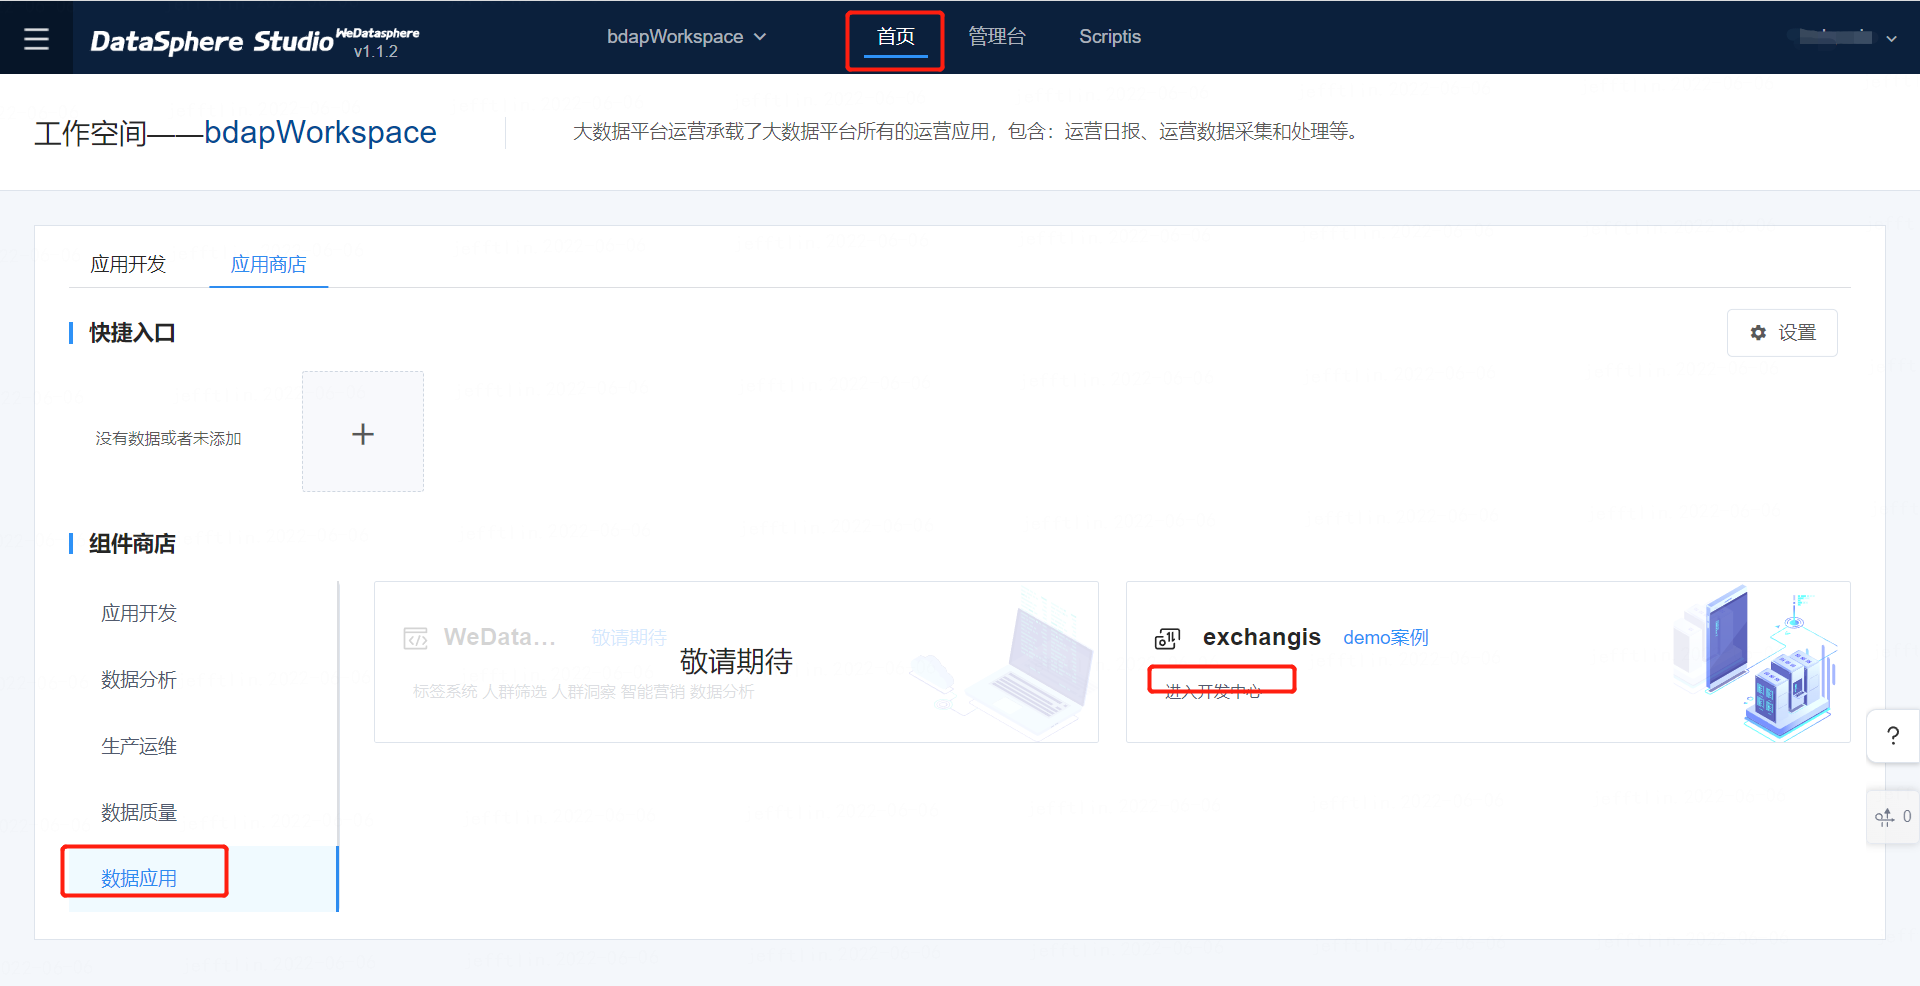
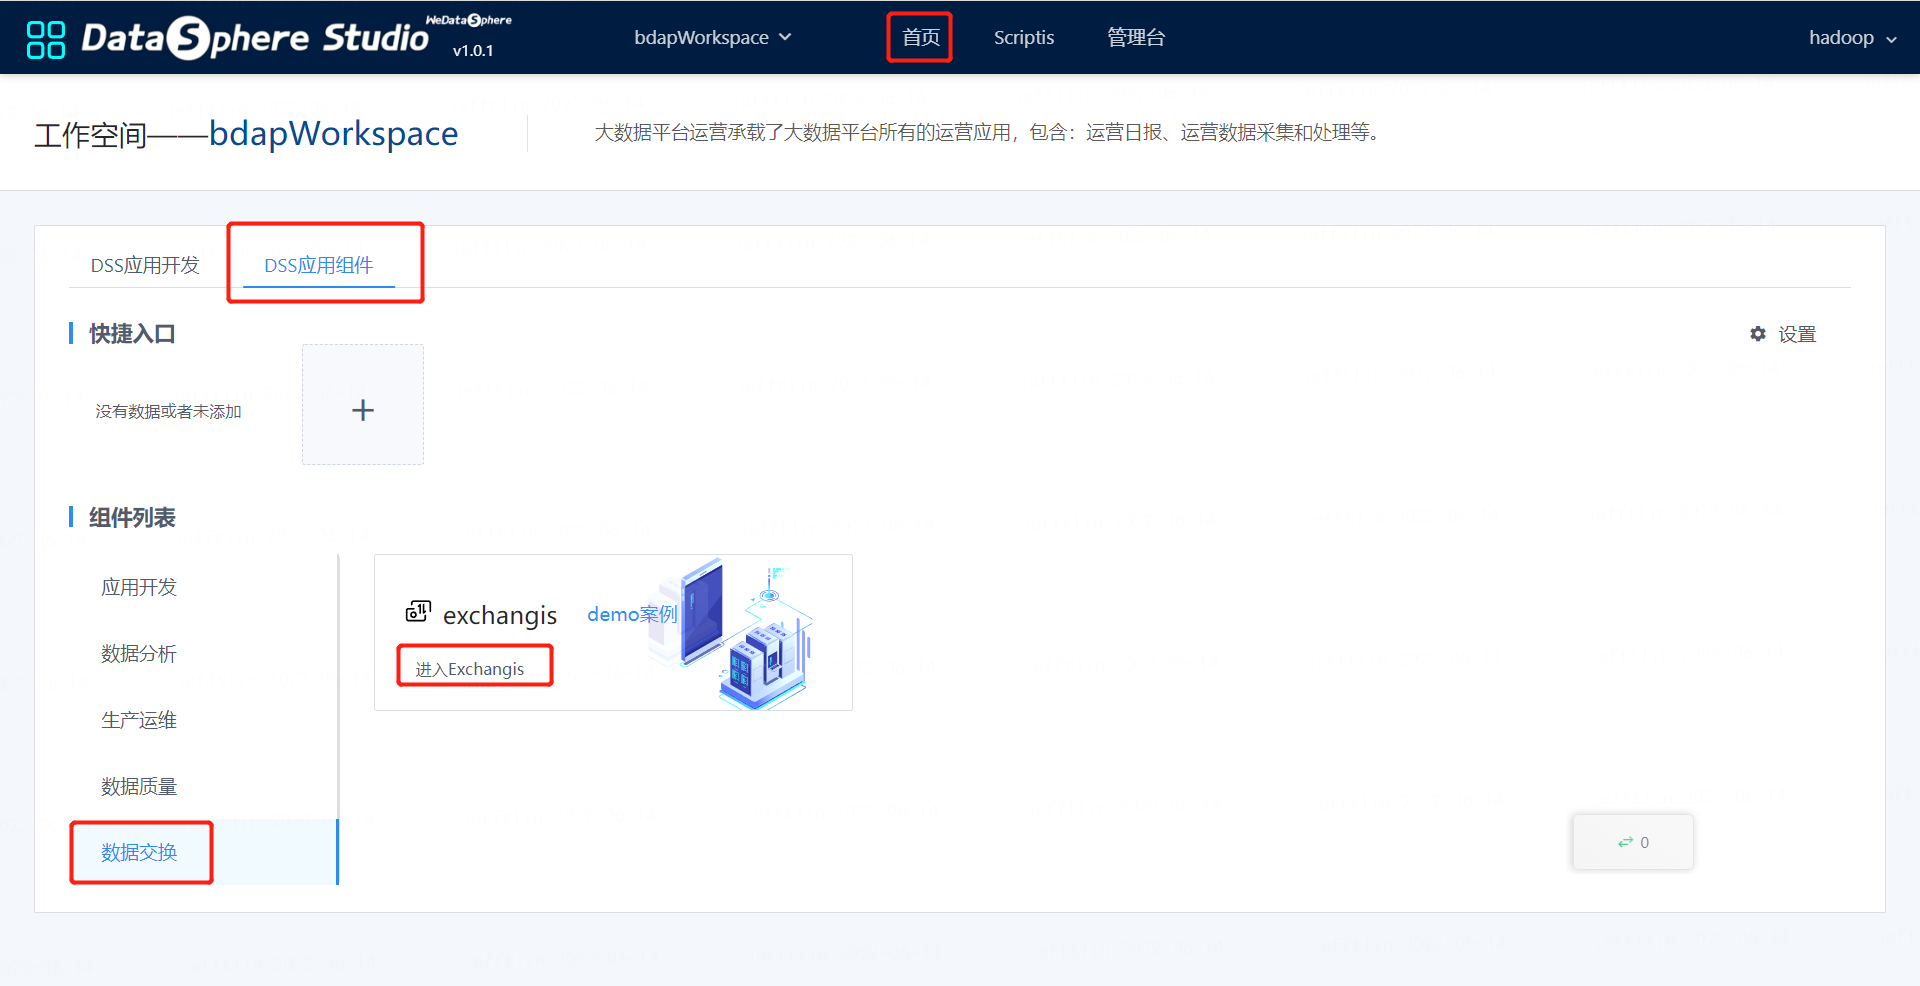
update exchangis_user_manual_cn.md

diff --git a/docs/zh_CN/ch1/exchangis_user_manual_cn.md b/docs/zh_CN/ch1/exchangis_user_manual_cn.md
@@ -10,18 +10,81 @@
 
 ### 1、登录DSS
 
-&emsp;&emsp;系统默认通过Linkis的Linux部署用户登录DSS，如使用hadoop部署Linkis和DSS，可以直接通过账号密码：hadoop/hadoop登录。 首先根据前端容器地址ip:port 登录网页，接着输入账号密码：hadoop/hadoop进入DSS
+&emsp;&emsp;系统默认通过Linkis的Linux部署用户登录DSS，如使用hadoop用户部署Linkis和DSS，可以直接通过账号密码：hadoop/hadoop登录。 首先根据DSS的前端部署地址登录网页，接着输入账号密码：hadoop/hadoop进入DSS
 
 ### 2、进入Exchangis
 
-&emsp;&emsp;Exchangis通过DSS来进入，在DSS页面中一词点击：**首页->应用商店->数据应用->进入开发中心**
+&emsp;&emsp;Exchangis通过DSS来进入，在DSS页面中一词点击：**首页->DSS应用组件->数据交换->进入Exchangis**
 
 ![exchangis1.0_entrance](../../../images/zh_CN/ch1/exchangis1.0_entrance.png)
 <div align="center">
 图2-1 Exchangis1.0入口
  </div>
 
-## 三、项目管理
+## 三、数据源管理
+
+&emsp;&emsp;该模块可以对数据源进行配置和管理，为进行数据同步作业的起始步骤，目前Exchangis1.0支持对mysql和hive直接数据的互相导入。
+数据源主要功能如下1：
+
+1.	创建，编辑，删除数据源
+2.	根据类型和名称搜索数据源，支持对数据源快速定位
+3.	数据源连接测试操作
+4.	历史数据源版本发布及记录
+
+![datasource_list](../../../images/zh_CN/ch1/datasource_list.png)
+
+<div align="center">
+图4-1 数据源管理列表
+ </div>
+
+
+### 1、创建数据源
+
+&emsp;&emsp;点击**创建数据源**，选择自己想要创建的数据源，当前支持MySQL和Hive两种数据源的创建。
+
+![datasource_type](../../../images/zh_CN/ch1/datasource_type.png)
+
+<div align="center">
+图4-2 数据源类型
+ </div>
+
+
+&emsp;&emsp;选择创建MySQL数据源，填写配置参数，其中，带星号的为必填项，务必保证连接MySQL数据库的Host，端口号，用户名和密码连接正确。**连接参数**为Json格式，用于设置MySQL的配置信息，填写完能够进行**测试连接**。
+
+![MySQL_datasource_config](../../../images/zh_CN/ch1/MySQL_datasource_config.png)
+
+<div align="center">
+图4-3 MySQL数据源配置
+ </div>
+
+
+&emsp;&emsp;对于Hive数据源的配置，与MySQL不太相同，暂时不提供用户自行在界面进行集群参数配置的功能，对于集群环境，由后端统一配置完成，用户只需要选择需要的集群环境即可，点击确定即可保存。
+
+![Hive_datasource_config](../../../images/zh_CN/ch1/Hive_datasource_config.png)
+
+<div align="center">
+图4-4 Hive数据源配置
+ </div>
+
+
+### 2、数据源功能
+
+&emsp;&emsp;数据源管理模块提供对配置数据源版本的**发布**功能，只有经过发布的数据源才能在配置导数任务的时候被使用，否则会提示不可用，只要再次编辑的数据源就会被视为一个新的版本，最新的版本在第一行。在版本列表中可以**查看**所有历史数据源版本的配置，您可在随时需要回滚时进行参考。
+
+![datasource_func](../../../images/zh_CN/ch1/datasource_func.png)
+
+<div align="center">
+图4-5 数据源发布功能
+ </div>
+
+&emsp;&emsp;数据源管理的**过期**功能，用于提示此数据源已经逐渐要被替换，请及时更换使用该数据源的任务配置，避免直接删除数据源造成所配置的执行任务失效。
+![datasource_timelimit](../../../images/zh_CN/ch1/datasource_timelimit.png)
+
+<div align="center">
+图4-6 数据源过期功能
+ </div>
+
+## 四、项目管理
 
 ### 1、项目列表
 
@@ -36,18 +99,18 @@
 
 ### 2、任务列表
 
-&emsp;&emsp;任务列表中可以对创建的job数据同步任务进行管理，与项目类似，包括**创建**，**修改**和**删除**以及**搜索**。
+&emsp;&emsp;任务列表中可以对创建的Job数据同步任务进行管理，与项目类似，包括**创建**，**修改**、**删除**和**搜索**。
 
 ![job_task_list](../../../images/zh_CN/ch1/job_task_list.png)
 <div align="center">
 图3-2 任务列表
  </div>
 
-&emsp;&emsp;除此之外，**任务支持复制**，能够增加需要的任务，复制的任务包含其原任务配置的所有信息。点击《创建任务》任务，能够选择任务类型和执行引擎，**目前仅支持离线任务和SQOOP执行引擎**，未来将会支持流式任务和DATAX引擎等。
+&emsp;&emsp;除此之外，**任务支持复制**，能够增加需要的任务，复制的任务包含其原任务配置的所有信息。点击《创建任务》任务，能够选择任务类型和执行引擎，**目前仅支持离线任务和SQOOP执行引擎**，未来将会支持流式任务和DataX引擎等。
 
 ![task_type_and_engine](../../../images/zh_CN/ch1/task_type_and_engine.png)
 <div align="center">
-图3-3 数据源管理列表
+图3-3 任务类型和引擎配置
  </div>
 
 ### 3、数据同步任务配置和执行
@@ -63,7 +126,7 @@
 6.	数据同步任务执行情况查看；
 7.	每个主任务和各个子任务的日志查看；
 8.	任务执行历史状态查看；
-9.	执行任务kill操作
+9.	执行任务kill操作。
 
 ### 4、数据源选择和配置
 
@@ -88,73 +151,14 @@
 
 ### 7、作业执行
 
-&emsp;&emsp;Exchangis1.0支持多个子任务同时执行，任务配置完成后，点击执行，即开始数据同步任务，界面下方会弹出工作台，工作台主要包含三个部分功能：《运行情况》，《实时日志》和《执行历史》；
-&emsp;&emsp;《运行情况》能够查看当前数据同步任务整体进度，包含task成功和失败的数量等，以及点击task的名字，能够展示每个task的各项运行指标信息。
+&emsp;&emsp;Exchangis1.0支持多个子任务同时执行，任务配置完成后，点击执行，即开始数据同步任务，界面下方会弹出工作台，工作台主要包含三个部分功能：**运行情况、实时日志和执行历史**；
+&emsp;&emsp;**运行情况**能够查看当前数据同步任务整体进度，包含task成功和失败的数量等，以及点击task的名字，能够展示每个task的各项运行指标信息。
 
-&emsp;&emsp;《实时日志》主要展示的内容包含两大类，一是整个导数job的日志，能够输出每个task的状态日志，例如task是否被调度，是否运行中等；二是每个task的日志，输出的是各自相应的导数日志。《实时日志》能够根据关键字和忽略字进行日志筛选，并别提供获取最后n行日志功能。
-在《实时日志》中可以对Error、Warning和Info不同类型的日志进行筛选展示，只需点击相应的按钮即可。
+&emsp;&emsp;**实时日志**主要展示的内容包含两大类，一是整个导数job的日志，能够输出每个task的状态日志，例如task是否被调度，是否运行中等；二是每个task的日志，输出的是各自相应的导数日志。在实时日志中能够根据关键字和忽略字进行日志筛选，并别提供获取最后n行日志功能；还可以对Error、Warning和Info不同类型的日志进行筛选展示，只需点击相应的按钮即可。
 
-&emsp;&emsp;《执行历史》能够展示该导数任务的历史执行信息，对历史执行过程提供初步的概览，如果想进一步查看详细历史信息，点击任务名称，即可跳转到同步历史界面进行查看。
+&emsp;&emsp;**执行历史**能够展示该导数任务的历史执行信息，对历史执行过程提供初步的概览，如果想进一步查看详细历史信息，点击任务名称，即可跳转到同步历史界面进行查看。
 
 &emsp;&emsp;数据同步任务执行需指定执行用户，默认为登录用户，具体情况需根据实际数据源的配置去调整。
-
-## 四、数据源管理
-
-&emsp;&emsp;该模块可以对数据源进行配置和管理，为进行数据同步作业的起始步骤，目前Exchangis1.0支持对mysql和hive直接数据的互相导入。
-数据源主要功能如下1：
-
-1.	创建，编辑，删除数据源
-2.	根据类型和名称搜索数据源，支持对数据源快速定位
-3.	数据源连接测试操作
-4.	历史数据源版本发布及记录
-
-![datasource_list](../../../images/zh_CN/ch1/datasource_list.png)
-<div align="center">
-图4-1 数据源管理列表
- </div>
-
-
-### 1、创建数据源
-
-&emsp;&emsp;点击**创建数据源**，选择自己想要创建的数据源，当前支持MySQL和Hive两种数据源的创建。
-
-![datasource_type](../../../images/zh_CN/ch1/datasource_type.png)
-<div align="center">
-图4-2 数据源类型
- </div>
-
-
-&emsp;&emsp;选择创建MySQL数据源，填写配置参数，其中，带星号的为必填项，务必保证连接MySQL数据库的Host，端口号，用户名和密码连接正确。**连接参数**为Json格式，用于设置MySQL的配置信息，填写完能够进行**测试连接**。
-
-![datasource_config](../../../images/zh_CN/ch1/datasource_config.png)
-<div align="center">
-图4-3 数据源配置
- </div>
-
-
-&emsp;&emsp;对于Hive数据源的配置，与MySQL不太相同，暂时不提供用户自行在界面进行集群参数配置的功能，对于集群环境，由后端统一配置完成，用户只需要选择需要的集群环境即可，点击确定即可保存。
-
-![add_datasource](../../../images/zh_CN/ch1/add_datasource.png)
-<div align="center">
-图4-4 添加数据源
- </div>
-
-
-### 2、数据源功能
-
-&emsp;&emsp;数据源管理模块提供对配置数据源版本的**发布**功能，只有经过发布的数据源才能在配置导数任务的时候被使用，否则会提示不可用，只要再次编辑的数据源就会被视为一个新的版本，最新的版本在第一行。在版本列表中可以**查看**所有历史数据源版本的配置，您可在随时需要回滚时进行参考。
-
-![datasource_func](../../../images/zh_CN/ch1/datasource_func.png)
-<div align="center">
-图4-5 数据源发布功能
- </div>
-
-
-&emsp;&emsp;数据源管理《过期》按钮，用于提示此数据源已经逐渐要被替换，请及时更换使用该数据源的任务配置，避免直接删除数据源造成所配置的执行任务失效。
-![datasource_timelimit](../../../images/zh_CN/ch1/datasource_timelimit.png)
-<div align="center">
-图4-6 数据源过期功能
- </div>
 
 
 ## 五、同步历史
@@ -167,28 +171,28 @@
 3.	查看每个任务的运行情况和实时日志；
 4.	查看每个同步任务的更细节配置信息和更新时间等。
 
-![sync_history](..\..\..\images\zh_CN\ch1\sync_history.png)
+![sync_history](../../../images/zh_CN/ch1/sync_history.png)
 
 <div align="center">
 图5-1 同步历史界面
  </div>
 
-## 六、EXCHANGIS APPCONN使用
+## 六、Exchangis Appconn使用
 
 &emsp;&emsp;目前，Exchangis1.0支持以Appconn形式与DSS对接，**在DSS端**，能够通过DSS的**应用开发->项目列表**，以工作流编排的模式创建数据交换**sqoop工作流节点**，在这里，能够进行数据同步任务的配置和执行。在DSS创建的Exchangis项目和数据交换任务，会同步在Exchangis中创建。
 
 Exchangis Appconn主要支持以下功能：
 
-1.	《项目操作》对DSS项目的创建，删除，修改操作会同步影响Exchangis端的项目；
-2.	《工作流节点基本操作》DSS编排器中对sqoop工作流节点创建，删除，修改操作会同步到Exchangis端的任务；
-3.	《工作流导数操作》支持sqoop工作流节点配置执行数据同步任务；
-4.	《工作流发布操作》支持sqoop工作流节点发布至WTSS进行任务调度。
+1.	**项目操作**是对DSS项目的创建，删除，修改操作会同步影响Exchangis端的项目；
+2.	**工作流节点基本操作**是DSS编排器中对sqoop工作流节点创建，删除，修改操作会同步到Exchangis端的任务；
+3.	**工作流导数操作**支持sqoop工作流节点配置执行数据同步任务；
+4.	**工作流发布操作**支持sqoop工作流节点发布至WTSS进行任务调度。
 
 ### 1、项目操作
 
 &emsp;&emsp;该模块能够对DSS项目进行创建、修改和删除，在DSS端的操作会同步到Exchangis端，这里以在DSS创建的项目为例，在exchangis appconn操作的流程为：**点击创建项目->填写项目信息->点击确认->进入Exchangis端->点击项目管理**，即可查看到同步创建的项目，如下图所示：
 
-![appconn_pro_create](..\..\..\images\zh_CN\ch1\appconn_pro_create.png)
+![appconn_pro_create](../../../images/zh_CN/ch1/appconn_pro_create.png)
 
 <div align="center">
 图6-1 项目操作
@@ -196,7 +200,7 @@ Exchangis Appconn主要支持以下功能：
 
 创建完成后，会在Exchangis端看到同步过来的项目
 
-![appconn_pro_sync](..\..\..\images\zh_CN\ch1\appconn_pro_sync.jpg)
+![appconn_pro_sync](../../../images/zh_CN/ch1/appconn_pro_sync.jpg)
 
 <div align="center">
 图6-2 项目同步到Exchangis
@@ -206,7 +210,7 @@ Exchangis Appconn主要支持以下功能：
 
 &emsp;工作流节点能够进行创建、修改、删除和进行依赖选择，可以进行节点之间的关联，在DSS端的操作会同步到Exchangis端。这里以对sqoop工作流节点的创建操作为例，在exchangis appconn对项目的操作流程为：**创建一条工作流->从左侧插件栏拖动sqoop节点至右侧画布->点击确认创建sqoop节点任务->进入exchangis端查看同步创建的任务**，如下图所示，对sqoop节点任务的删除和修改同理。
 
-![appconn_pro_sqoop](..\..\..\images\zh_CN\ch1\appconn_pro_sqoop.png)
+![appconn_pro_sqoop](../../../images/zh_CN/ch1/appconn_pro_sqoop.png)
 
 <div align="center">
 图6-3 Sqoop节点功能
@@ -214,7 +218,7 @@ Exchangis Appconn主要支持以下功能：
 
 可以看到导数任务也同步到Exchangis中了
 
-![](..\..\..\images\zh_CN\ch1\appconn_pro_sqoop_sync.jpg)
+![](../../../images/zh_CN/ch1/appconn_pro_sqoop_sync.jpg)
 
 <div align="center">
 图6-4 Sqoop节点同步到Exchangis
@@ -224,13 +228,13 @@ Exchangis Appconn主要支持以下功能：
 
 &emsp;&emsp;双击Sqoop节点进行工作流节点进行操作，支持sqoop工作流节点配置与执行数据同步任务。以工作流节点形式进行导数任务是Exchangis Appconn的核心功能，**每一个sqoop节点代表一个数据同步任务**，具体操作流程如下：**双击sqoop节点->弹出任务配置界面->配置任务信息->执行任务**，如下图所示：
 
-![sqoop_config](..\..\..\images\zh_CN\ch1\sqoop_config.png)
+![sqoop_config](../../../images/zh_CN/ch1/sqoop_config.png)
 
 <div align="center">
 图6-5 双击sqoop工作流节点进入配置界面
  </div>
 
-![sqoop_user_config](..\..\..\images\zh_CN\ch1\sqoop_user_config.png)
+![sqoop_user_config](../../../images/zh_CN/ch1/sqoop_user_config.png)
 
 <div align="center">
 图6-6 配置工作流节点信息
@@ -238,7 +242,7 @@ Exchangis Appconn主要支持以下功能：
 
 &emsp;&emsp;这里有两种执行方式，一种是在弹出的任务配置界面点击执行按钮进行执行；另一种是点击DSS编排器的**执行按钮**或者是**选中执行按钮**进行执行，**点击执行**会对该工作流中的所有节点执行，**点击选中执行**仅会执行选中的工作流节点，不会执行全部节点。
 
-![sqoop_execute](..\..\..\images\zh_CN\ch1\sqoop_execute.png)
+![sqoop_execute](../../../images/zh_CN/ch1/sqoop_execute.png)
 
 <div align="center">
 图6-7 执行任务
@@ -254,5 +258,5 @@ Exchangis Appconn主要支持以下功能：
 
 &emsp;&emsp;点击命名空间的下拉框，切换到**生产中心**，可以看到所有项目的工作流的日志，可以查看每个工作流调度的状态
 
-![production_center](..\..\..\images\zh_CN\ch1\production_center.png)
+![production_center](../../../images/zh_CN/ch1/production_center.png)
 
